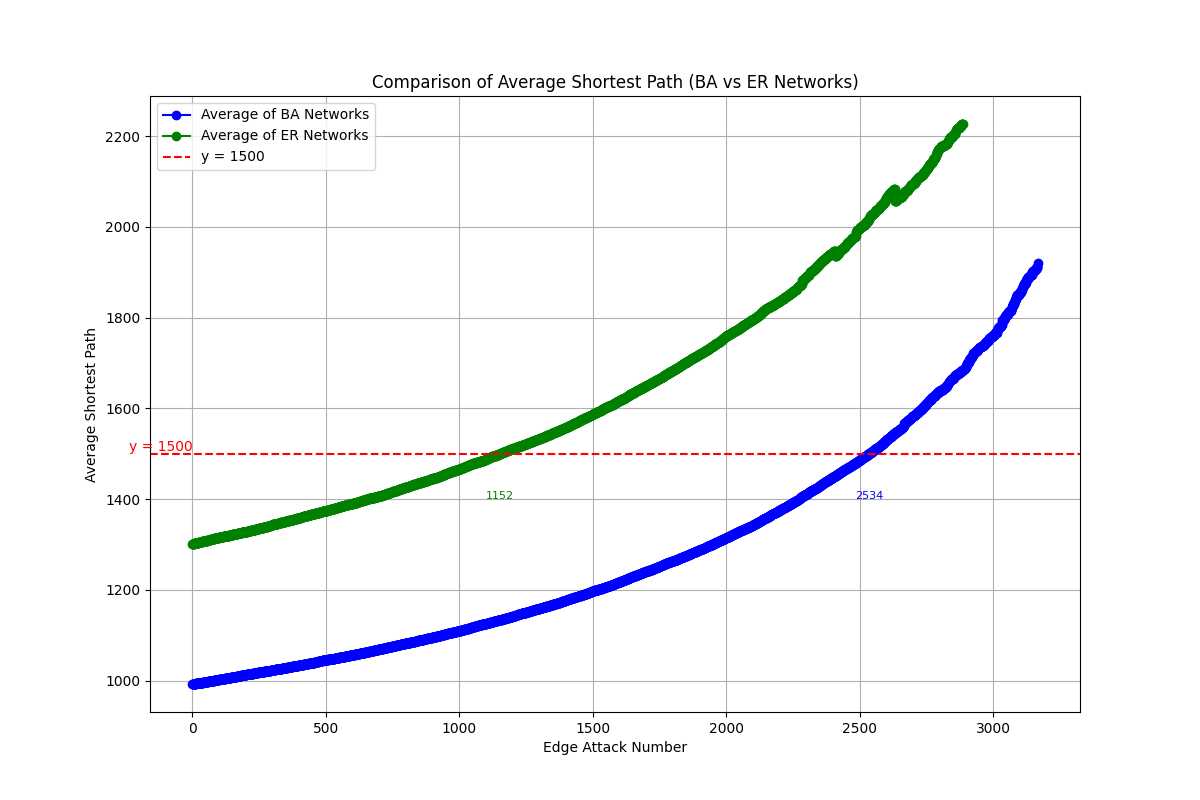
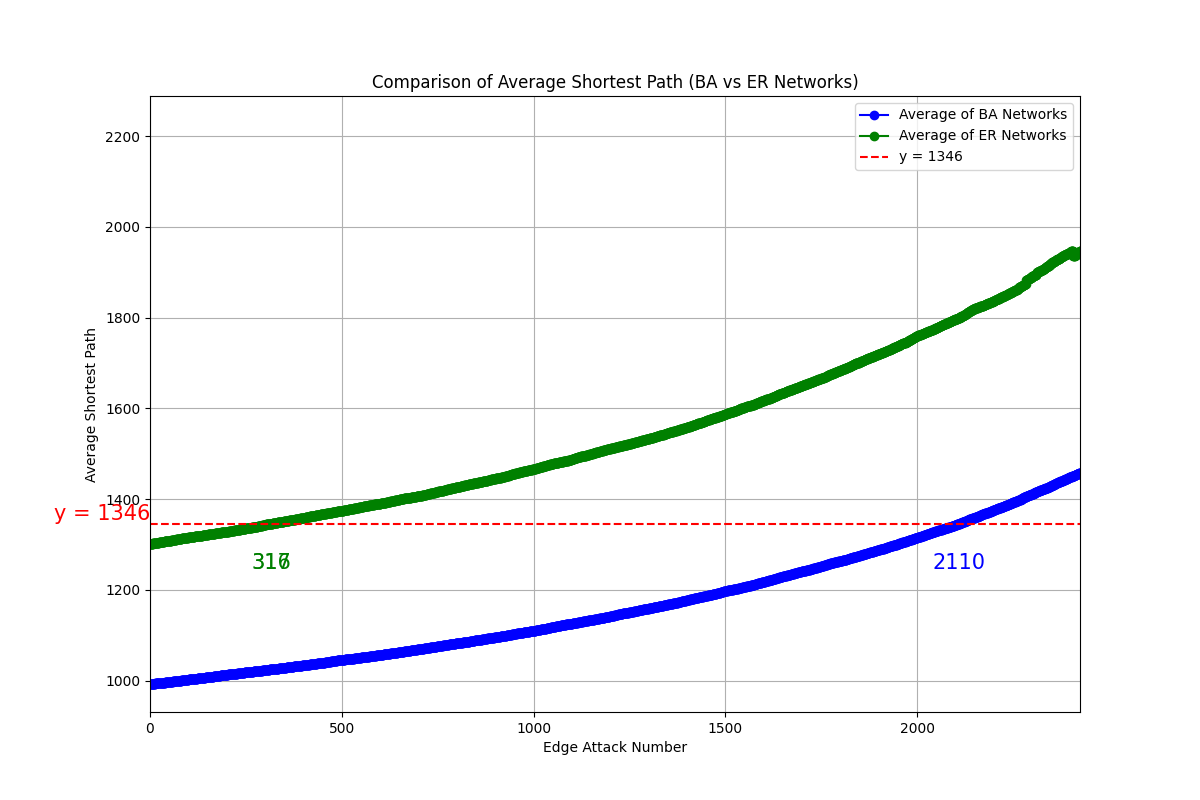
revise graph

diff --git a/network_analysis/synthesize_whole_process.py b/network_analysis/synthesize_whole_process.py
@@ -2,6 +2,7 @@ import pandas as pd
 import matplotlib.pyplot as plt
 import numpy as np
 import os
+import random
 
 # 파일 경로 설정
 ba_network_dir = "repeat_num/DongBA/BA_random_network/attack_results"
@@ -61,12 +62,26 @@ plt.plot(
     label="Average of ER Networks",
 )
 
-# y값 범위 확인
-print("BA y값 범위:", ba_avg_shortest_path.min(), "-", ba_avg_shortest_path[-2])
-print("ER y값 범위:", er_avg_shortest_path.min(), "-", er_avg_shortest_path[-2])
 
-# 적절한 custom_y 설정 (예: 3)
-custom_y = 1500
+# BA와 ER의 y값 공통 범위 계산
+common_min = max(ba_avg_shortest_path.min(), er_avg_shortest_path.min())
+common_max = min(ba_avg_shortest_path[2426], er_avg_shortest_path[2426])
+
+# 공통 범위의 80% 설정
+range_80_min = int(common_min + 0.1 * (common_max - common_min))
+range_80_max = int(common_min + 0.9 * (common_max - common_min))
+
+# range_80_min과 range_80_max를 정수로 변환
+range_80_min = round(range_80_min)
+range_80_max = round(range_80_max)
+
+# 80% 범위에서 랜덤하게 custom_y 생성
+custom_y = random.randint(range_80_min, range_80_max)
+
+# 결과 출력
+print(f"공통 범위: {common_min:.2f} - {common_max:.2f}")
+print(f"80% 범위: {range_80_min:.2f} - {range_80_max:.2f}")
+print(f"랜덤 custom_y: {custom_y:.2f}")
 
 # custom_y 표시
 plt.axhline(
@@ -77,20 +92,20 @@ plt.text(
     custom_y,
     f"y = {custom_y}",
     color="red",
-    fontsize=10,
+    fontsize=15,
     va="bottom",
     ha="right",
 )
 
 # BA 네트워크 x값 표시
 for x, y in zip(ba_edge_attack_number, ba_avg_shortest_path):
-    if np.isclose(y, custom_y, atol=0.2):  # BA y값에 맞는 custom_y
-        plt.text(x, y - 100, f"{x}", color="blue", fontsize=8, ha="center")
+    if np.isclose(y, custom_y, atol=0.1):  # BA y값에 맞는 custom_y
+        plt.text(x, y - 100, f"{x}", color="blue", fontsize=15, ha="center")
 
 # ER 네트워크 x값 표시
 for x, y in zip(er_edge_attack_number, er_avg_shortest_path):
-    if np.isclose(y, custom_y, atol=0.2):  # ER y값에 맞는 custom_y
-        plt.text(x, y - 100, f"{x}", color="green", fontsize=8, ha="center")
+    if np.isclose(y, custom_y, atol=0.1):  # ER y값에 맞는 custom_y
+        plt.text(x, y - 100, f"{x}", color="green", fontsize=15, ha="center")
 
 
 # 그래프 라벨 및 제목
@@ -99,6 +114,7 @@ plt.ylabel("Average Shortest Path")
 plt.title("Comparison of Average Shortest Path (BA vs ER Networks)")
 plt.grid(True)
 plt.legend()
+plt.xlim(0, 2425)  # x축 범위 제한 추가
 
 # 그래프 저장
 combined_graph_path = os.path.join(
